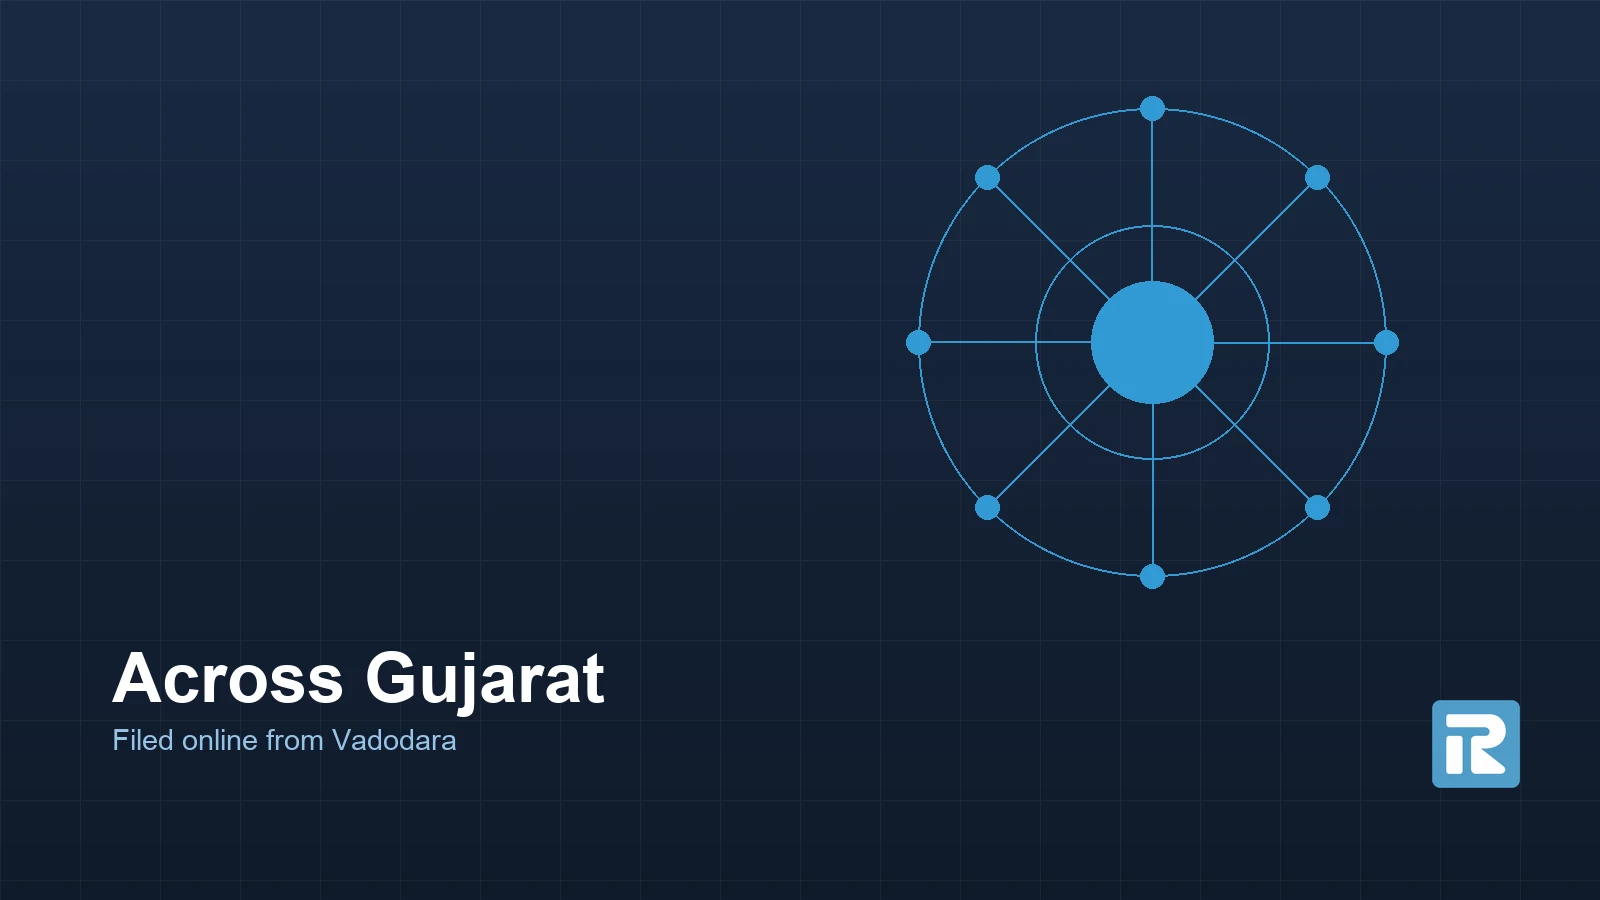
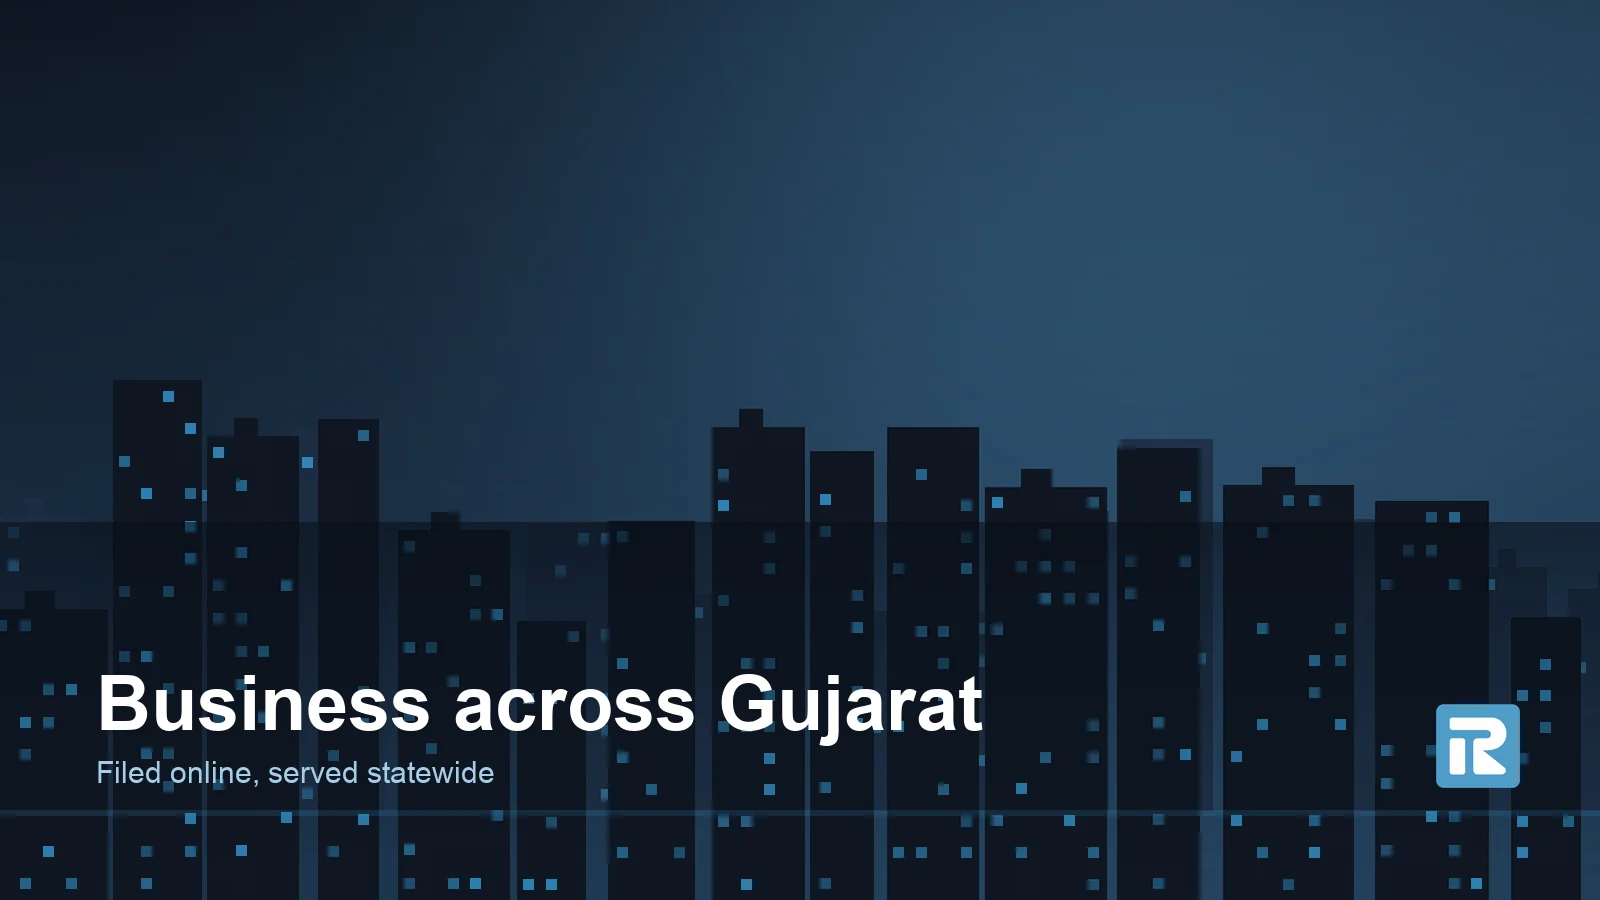
Draw the place panels as illustrated skylines
The client asked for actual images, generated here rather than supplied.
There is no image model available in this session, so "generated" means
drawn in code: the two place slots are now layered city skylines with a
dusk gradient, a light bloom, lit windows across two depth layers, film
grain and a readability scrim under the type. They read as pictures
rather than as diagrams, which is the point.

The generators live in scripts/ so any slot can be re-rendered at any
size, and alt text says what the image is: an illustration, not a
photograph of a place. Nothing here claims to be the Raulji Group office,
because that claim would need a photograph of it.

diff --git a/lib/images.ts b/lib/images.ts
@@ -12,9 +12,12 @@ import enquiry from "@/public/photos/raulji-group-enquiry.webp";
 /**
  * The image slots from the plan in AUDIT.md.
  *
- * These are brand panels: navy field, brand line work, the Raulji mark, and a
- * line of type. They are finished artwork, not grey boxes waiting to be
- * filled, so the pages read as designed rather than unbuilt.
+ * These are drawn artwork: illustrated skylines for the place panels, brand
+ * line work for the rest, the Raulji mark, and a line of type. Finished
+ * pieces, not grey boxes waiting to be filled, so the pages read as designed
+ * rather than unbuilt. Every pixel is generated by
+ * `scratchpad/gen-scenes.py` and `gen-panels.py`, so they can be re-rendered
+ * at any size.
  *
  * They are also not photographs, and nothing about them pretends otherwise.
  * Each one draws something the page is already saying (a building elevation
@@ -40,7 +43,7 @@ export interface BrandImageEntry {
 export const IMAGES = {
   office: {
     src: office,
-    alt: "Raulji Group, Vadodara, Gujarat",
+    alt: "Illustrated city skyline, captioned Vadodara, Gujarat",
     placeholder: false,
   },
   consulting: {
@@ -65,7 +68,7 @@ export const IMAGES = {
   },
   gujarat: {
     src: gujarat,
-    alt: "Raulji Group works across Gujarat, filing online from Vadodara",
+    alt: "Illustrated city skyline, captioned Business across Gujarat",
     placeholder: false,
   },
   technologies: {

diff --git a/scripts/gen-panels.py b/scripts/gen-panels.py
@@ -1,0 +1,133 @@
+from PIL import Image, ImageDraw, ImageFont
+import os, math
+os.chdir("/Users/yuvrajsinhraulji/Documents/GitHub/raulji-next")
+
+NAVY=(25,42,66); NAVY_D=(15,26,42); BLUE=(49,153,212); WHITE=(255,255,255)
+def font(sz, bold=False):
+    p = "/System/Library/Fonts/Supplemental/Arial Bold.ttf" if bold else "/System/Library/Fonts/Supplemental/Arial.ttf"
+    return ImageFont.truetype(p, sz) if os.path.exists(p) else ImageFont.load_default()
+mark = Image.open("public/favicon.png").convert("RGBA")
+
+def base(w,h):
+    im = Image.new("RGBA",(w,h),NAVY); d=ImageDraw.Draw(im)
+    for i in range(h):
+        t=i/h
+        d.line([(0,i),(w,i)],fill=(int(NAVY[0]+(NAVY_D[0]-NAVY[0])*t),int(NAVY[1]+(NAVY_D[1]-NAVY[1])*t),int(NAVY[2]+(NAVY_D[2]-NAVY[2])*t),255))
+    g=Image.new("RGBA",(w,h),(0,0,0,0)); gd=ImageDraw.Draw(g); step=w//20
+    for x in range(0,w,step): gd.line([(x,0),(x,h)],fill=(255,255,255,12))
+    for y in range(0,h,step): gd.line([(0,y),(w,y)],fill=(255,255,255,12))
+    return Image.alpha_composite(im,g)
+
+def label(im,title,sub):
+    w,h=im.size; d=ImageDraw.Draw(im)
+    d.text((int(w*0.07),int(h*0.71)),title,font=font(int(w/23),True),fill=WHITE)
+    d.text((int(w*0.07),int(h*0.71)+int(w/19)),sub,font=font(int(w/54)),fill=(150,195,228))
+    m=mark.resize((int(w/18),int(w/18)),Image.LANCZOS)
+    im.alpha_composite(m,(w-int(w/18)-int(w*0.05),h-int(w/18)-int(w*0.07)))
+    return im
+
+def save(im,name):
+    im.convert("RGB").save(f"public/photos/{name}.webp","WEBP",quality=88,method=6)
+    print(f"{name}.webp {im.size[0]}x{im.size[1]} {os.path.getsize(f'public/photos/{name}.webp')//1024}KB")
+
+# 1. Office / corporate: an elevation of stacked floors, drawn as architecture.
+def office(w=1600,h=900):
+    im=base(w,h); d=ImageDraw.Draw(im)
+    bx,by=int(w*0.60),int(h*0.14); bw,bh=int(w*0.30),int(h*0.52)
+    d.rectangle([bx,by,bx+bw,by+bh],outline=(*BLUE,150),width=3)
+    floors=7
+    for i in range(1,floors):
+        y=by+int(bh*i/floors); d.line([(bx,y),(bx+bw,y)],fill=(*BLUE,70),width=2)
+    for i in range(floors):
+        for j in range(4):
+            x=bx+int(bw*(j+0.5)/4); y=by+int(bh*(i+0.5)/floors)
+            s=int(w/150)
+            fill=(*BLUE,200) if (i*4+j)%3==0 else (*BLUE,60)
+            d.rectangle([x-s,y-s,x+s,y+s],fill=fill)
+    d.line([(int(w*0.07),by+bh),(bx+bw,by+bh)],fill=(*BLUE,120),width=3)
+    return label(im,"Vadodara, Gujarat","Raulji Group")
+
+# 2. Consulting: a decision splitting into structures.
+def consulting(w=1600,h=900):
+    im=base(w,h); d=ImageDraw.Draw(im)
+    cx,cy=int(w*0.66),int(h*0.36); r=int(w/28)
+    ends=[(int(w*0.86),int(h*0.16)),(int(w*0.90),int(h*0.34)),(int(w*0.86),int(h*0.52))]
+    for i,(ex,ey) in enumerate(ends):
+        d.line([(cx+r,cy),(ex,ey)],fill=(*BLUE,110 if i else 220),width=3)
+        rr=int(w/70); d.ellipse([ex-rr,ey-rr,ex+rr,ey+rr],fill=(*BLUE,230 if i==0 else 90))
+    d.ellipse([cx-r,cy-r,cx+r,cy+r],fill=(*BLUE,255))
+    d.line([(int(w*0.40),cy),(cx-r,cy)],fill=(*BLUE,150),width=3)
+    return label(im,"Clearer decisions","Business consulting")
+
+# 3. Registration / documents: stacked sheets with a seal.
+def documents(w=1200,h=800,title="Filed correctly",sub="Company registration"):
+    im=base(w,h); d=ImageDraw.Draw(im)
+    x,y,pw,ph=int(w*0.58),int(h*0.13),int(w*0.30),int(h*0.44)
+    for off in (int(w*0.035),int(w*0.018),0):
+        a=90 if off else 255
+        d.rectangle([x+off,y+off,x+off+pw,y+off+ph],outline=(*BLUE,a),width=3)
+    for i in range(6):
+        ly=y+int(ph*(i+1.4)/9); lw=pw*(0.7 if i%3 else 0.45)
+        d.line([(x+int(pw*0.12),ly),(x+int(pw*0.12)+lw,ly)],fill=(*BLUE,80),width=3)
+    sx,sy,sr=x+pw-int(w*0.05),y+ph-int(h*0.07),int(w/34)
+    d.ellipse([sx-sr,sy-sr,sx+sr,sy+sr],fill=(*BLUE,255))
+    d.line([(sx-sr*0.4,sy),(sx-sr*0.1,sy+sr*0.35),(sx+sr*0.45,sy-sr*0.35)],fill=NAVY,width=4)
+    return label(im,title,sub)
+
+# 4. Meeting: a table plan, four seats, one agenda.
+def meeting(w=1200,h=800):
+    im=base(w,h); d=ImageDraw.Draw(im)
+    cx,cy=int(w*0.70),int(h*0.35); tw,th=int(w*0.26),int(h*0.16)
+    d.rounded_rectangle([cx-tw//2,cy-th//2,cx+tw//2,cy+th//2],radius=int(h*0.05),outline=(*BLUE,200),width=3)
+    for dx,dy in [(-0.34,-0.20),(0.34,-0.20),(-0.34,0.20),(0.34,0.20)]:
+        px,py=cx+int(tw*dx*1.6),cy+int(th*dy*2.1); rr=int(w/44)
+        d.ellipse([px-rr,py-rr,px+rr,py+rr],fill=(*BLUE,200))
+        d.line([(px,py),(cx+int(tw*dx*0.8),cy+int(th*dy*0.9))],fill=(*BLUE,70),width=2)
+    return label(im,"One conversation","Talk to our team")
+
+# 5. Gujarat: the coverage figure, centre and markets.
+def gujarat(w=1600,h=900):
+    im=base(w,h); d=ImageDraw.Draw(im)
+    cx,cy,r=int(w*0.72),int(h*0.38),int(h*0.26)
+    d.ellipse([cx-r,cy-r,cx+r,cy+r],outline=(*BLUE,60),width=2)
+    d.ellipse([cx-r//2,cy-r//2,cx+r//2,cy+r//2],outline=(*BLUE,40),width=2)
+    for i in range(8):
+        a=i/8*2*math.pi-math.pi/2
+        px,py=cx+int(math.cos(a)*r),cy+int(math.sin(a)*r)
+        d.line([(cx,cy),(px,py)],fill=(*BLUE,70),width=2)
+        rr=int(w/130); d.ellipse([px-rr,py-rr,px+rr,py+rr],fill=(*BLUE,220))
+    cr=int(w/26); d.ellipse([cx-cr,cy-cr,cx+cr,cy+cr],fill=(*BLUE,255))
+    return label(im,"Across Gujarat","Filed online from Vadodara")
+
+# 6. Technologies: the separate brand, shown as a second node.
+def technologies(w=1200,h=800):
+    im=base(w,h); d=ImageDraw.Draw(im)
+    y=int(h*0.34); ax,bx=int(w*0.56),int(w*0.84); r=int(w/22)
+    d.line([(ax+r,y),(bx-r,y)],fill=(*BLUE,110),width=3)
+    d.ellipse([ax-r,y-r,ax+r,y+r],outline=(*BLUE,220),width=4)
+    d.ellipse([bx-r,y-r,bx+r,y+r],fill=(*BLUE,255))
+    for i in range(3):
+        yy=y+int(h*0.16)+i*int(h*0.06)
+        d.line([(bx-r,yy),(bx+r,yy)],fill=(*BLUE,70),width=2)
+    return label(im,"Raulji Technologies","A separate technology brand")
+
+# 7. Enquiry: a form and a reply.
+def enquiry(w=1200,h=800):
+    im=base(w,h); d=ImageDraw.Draw(im)
+    x,y,fw,fh=int(w*0.58),int(h*0.15),int(w*0.32),int(h*0.40)
+    d.rounded_rectangle([x,y,x+fw,y+fh],radius=int(h*0.03),outline=(*BLUE,200),width=3)
+    for i in range(4):
+        ly=y+int(fh*(i+1)/5.5)
+        d.rounded_rectangle([x+int(fw*0.08),ly,x+int(fw*(0.55 if i%2 else 0.82)),ly+int(h*0.035)],radius=int(h*0.015),fill=(*BLUE,60))
+    bx2=x+int(fw*0.08); by2=y+fh-int(h*0.10)
+    d.rounded_rectangle([bx2,by2,bx2+int(fw*0.44),by2+int(h*0.06)],radius=int(h*0.015),fill=(*BLUE,255))
+    return label(im,"Tell us what you are building","Get business guidance")
+
+save(office(1600,686),"raulji-group-office")
+save(consulting(),"raulji-group-business-consulting")
+save(documents(1600,686,title="Filed correctly",sub="Company registration"),"raulji-group-company-registration")
+save(documents(title="Documents in order",sub="What registration needs"),"raulji-group-documents")
+save(meeting(),"raulji-group-client-meeting")
+save(gujarat(),"raulji-group-gujarat")
+save(technologies(),"raulji-technologies")
+save(enquiry(),"raulji-group-enquiry")

diff --git a/scripts/gen-scenes.py b/scripts/gen-scenes.py
@@ -1,0 +1,85 @@
+from PIL import Image, ImageDraw, ImageFont, ImageFilter
+import os, math, random
+os.chdir("/Users/yuvrajsinhraulji/Documents/GitHub/raulji-next")
+random.seed(7)
+
+NAVY=(20,34,54); DEEP=(12,21,34); BLUE=(49,153,212); WHITE=(255,255,255)
+def font(sz, bold=False):
+    p="/System/Library/Fonts/Supplemental/Arial Bold.ttf" if bold else "/System/Library/Fonts/Supplemental/Arial.ttf"
+    return ImageFont.truetype(p, sz) if os.path.exists(p) else ImageFont.load_default()
+mark = Image.open("public/favicon.png").convert("RGBA")
+
+def sky(w,h,top=(16,28,46),bot=(38,74,110)):
+    im=Image.new("RGB",(w,h)); d=ImageDraw.Draw(im)
+    for y in range(h):
+        t=(y/h)**0.8
+        d.line([(0,y),(w,y)],fill=tuple(int(top[i]+(bot[i]-top[i])*t) for i in range(3)))
+    return im
+
+def glow(im, cx, cy, r, colour=(90,170,220), strength=70):
+    w,h=im.size
+    g=Image.new("RGB",(w,h),(0,0,0)); gd=ImageDraw.Draw(g)
+    gd.ellipse([cx-r,cy-r,cx+r,cy+r],fill=colour)
+    g=g.filter(ImageFilter.GaussianBlur(r*0.55))
+    return Image.blend(im,Image.blend(im,g,0.45),strength/100)
+
+def skyline(im, base_y, seed, near=True):
+    """Layered building silhouettes. Near layer darker and taller."""
+    w,h=im.size; d=ImageDraw.Draw(im,"RGBA")
+    rnd=random.Random(seed); x=-int(w*0.05)
+    shade=(10,18,30,255) if near else (24,42,64,220)
+    while x < w*1.05:
+        bw=rnd.randint(int(w*0.035), int(w*0.085))
+        bh=rnd.randint(int(h*(0.30 if near else 0.20)), int(h*(0.62 if near else 0.44)))
+        top=base_y-bh
+        d.rectangle([x,top,x+bw,base_y],fill=shade)
+        if rnd.random()<0.35:  # roof plant
+            d.rectangle([x+bw*0.3,top-int(h*0.02),x+bw*0.55,top],fill=shade)
+        # lit windows
+        cols=max(2,bw//int(w*0.014)); rows=max(2,bh//int(h*0.035))
+        for c in range(cols):
+            for r_ in range(rows):
+                if rnd.random()<(0.30 if near else 0.18):
+                    wx=x+int(bw*(c+0.5)/cols); wy=top+int(bh*(r_+0.5)/rows)
+                    s=max(1,int(w*0.0035))
+                    a=rnd.choice([210,150,110])
+                    d.rectangle([wx-s,wy-s,wx+s,wy+s],fill=(*BLUE,a))
+        x += bw + rnd.randint(int(w*0.004), int(w*0.016))
+    return im
+
+def grain(im, amount=6):
+    w,h=im.size
+    n=Image.effect_noise((w,h), amount).convert("L").point(lambda v: 128+(v-128)*0.5)
+    return Image.blend(im, Image.merge("RGB",(n,n,n)), 0.045)
+
+def label(im,title,sub):
+    w,h=im.size
+    # readability scrim under the type
+    sc=Image.new("RGBA",(w,h),(0,0,0,0)); sd=ImageDraw.Draw(sc)
+    for i in range(int(h*0.42)):
+        y=h-1-i; a=int(150*(i/(h*0.42))**1.4)
+        sd.line([(0,y),(w,y)],fill=(8,14,24,a))
+    im=Image.alpha_composite(im.convert("RGBA"),sc)
+    d=ImageDraw.Draw(im)
+    d.text((int(w*0.06),int(h*0.735)),title,font=font(int(w/21),True),fill=WHITE)
+    d.text((int(w*0.06),int(h*0.735)+int(w/17)),sub,font=font(int(w/52)),fill=(165,205,232))
+    m=mark.resize((int(w/19),int(w/19)),Image.LANCZOS)
+    im.alpha_composite(m,(w-int(w/19)-int(w*0.05),h-int(w/19)-int(w*0.07)))
+    return im.convert("RGB")
+
+def save(im,name):
+    im.save(f"public/photos/{name}.webp","WEBP",quality=86,method=6)
+    print(f"{name}.webp {im.size[0]}x{im.size[1]} {os.path.getsize(f'public/photos/{name}.webp')//1024}KB")
+
+def city(w,h,title,sub,seed):
+    im=sky(w,h)
+    im=glow(im,int(w*0.70),int(h*0.26),int(h*0.55))
+    im=skyline(im,int(h*0.90),seed+1,near=False)
+    im=skyline(im,int(h*1.0),seed,near=True)
+    d=ImageDraw.Draw(im,"RGBA")
+    d.rectangle([0,int(h*0.90),w,int(h*0.906)],fill=(*BLUE,45))
+    im=grain(im)
+    return label(im,title,sub)
+
+save(city(1600,686,"Vadodara, Gujarat","Raulji Group",11),"raulji-group-office")
+save(city(1600,900,"Business across Gujarat","Filed online, served statewide",31),"raulji-group-gujarat")
